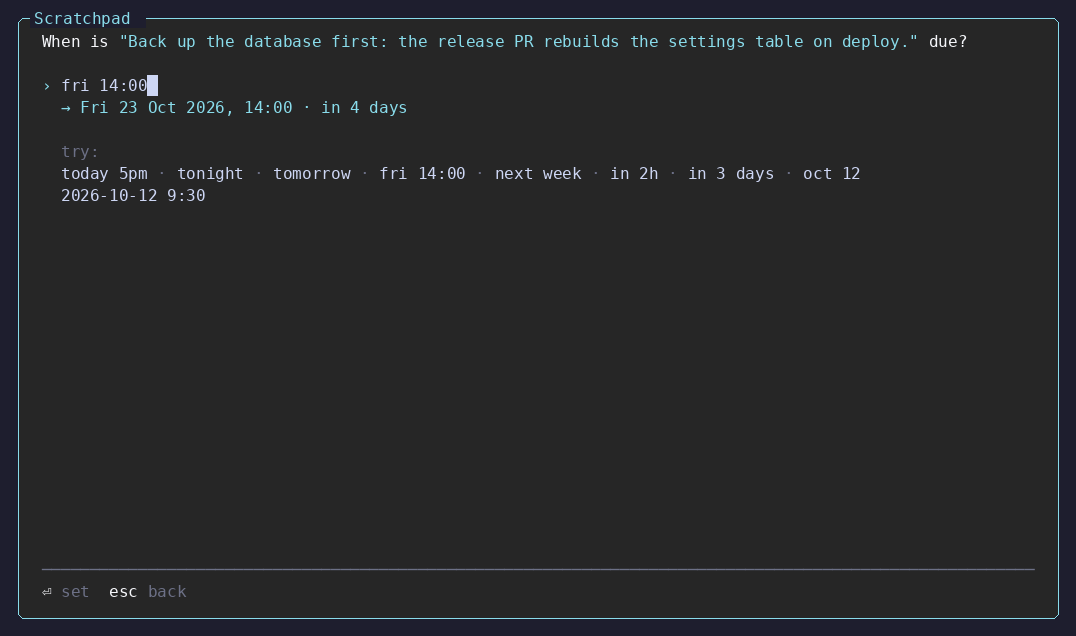
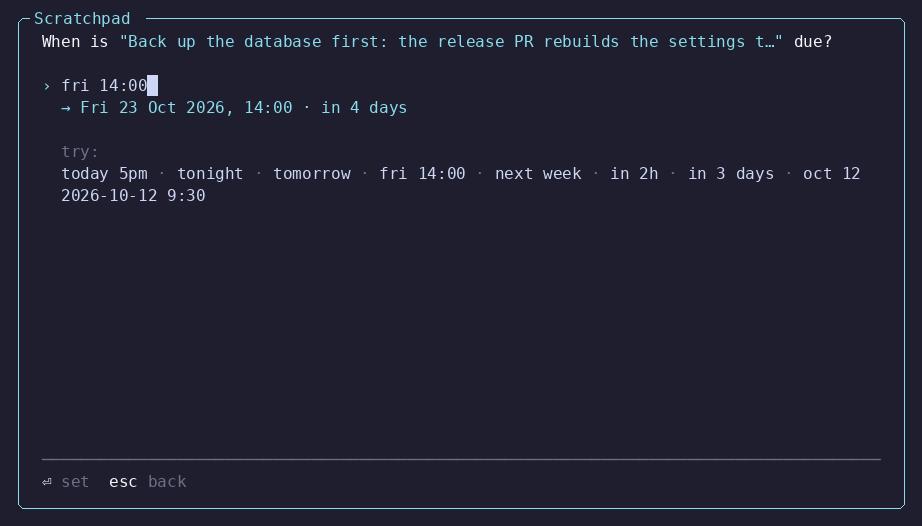
Match Quick Prompt's background and size
The popup no longer paints its own gray background, so it shows Herdr's
theme as Quick Prompt does. Both popups are now 92x23, halfway between
the old sizes.

At that width the notes hints do not all fit, so they are listed most
useful first and the ones that do not fit are left off, instead of the
line being cut mid-word. The screenshots are redrawn.

diff --git a/bin/popup.js b/bin/popup.js
@@ -119,9 +119,18 @@ function suggestions() {
 
 const DOT = ` ${style.dim("·")} `;
 
-// "key label" pairs, the key bright so the eye finds it first.
-function keys(pairs) {
-  return pairs.filter(Boolean).map(([key, label]) => `${style.bright(key)} ${style.dim(label)}`).join("  ");
+// "key label" pairs, the key bright so the eye finds it first. Pairs come
+// most useful first, and those that do not fit in `width` are left off.
+function keys(pairs, width = Infinity) {
+  const shown = [];
+  let used = 0;
+  for (const [key, label] of pairs.filter(Boolean)) {
+    const size = displayWidth(`${key} ${label}`) + (shown.length ? 2 : 0);
+    if (used + size > width) break;
+    shown.push(`${style.bright(key)} ${style.dim(label)}`);
+    used += size;
+  }
+  return shown.join("  ");
 }
 
 function spread(left, right, width) {
@@ -260,7 +269,7 @@ function emptyLines() {
   ];
 }
 
-function notesHints() {
+function notesHints(width) {
   if (state.notice) return style.warn(state.notice);
   if (state.confirmDelete) return style.warn(`ctrl+d again deletes ${plural(targets().length, "note")} · any other key keeps them`);
   if (!current()) return keys([["tab", "write"], ["← →", "folders"], ["esc", "close"]]);
@@ -268,13 +277,13 @@ function notesHints() {
   return keys([
     ["tab", "write"],
     ["⏎", "edit"],
-    ["space", "tick"],
     ["ctrl+n", "agent"],
-    ["ctrl+w", "when"],
-    ["ctrl+x", current().done ? "reopen" : "done"],
-    ["ctrl+d", "delete"],
     src.session && RESUME_ARGS[src.agent] && ["ctrl+o", "session"],
-  ]);
+    ["ctrl+x", current().done ? "reopen" : "done"],
+    ["ctrl+w", "when"],
+    ["ctrl+d", "delete"],
+    ["space", "tick"],
+  ], width);
 }
 
 function notesBody(width, rows) {
@@ -282,7 +291,7 @@ function notesBody(width, rows) {
   lines[0] = tabRow(width);
   lines[1] = style.dim("─".repeat(width));
   lines[rows - 2] = style.dim("─".repeat(width));
-  lines[rows - 1] = notesHints();
+  lines[rows - 1] = notesHints(width);
   const top = 2;
   const height = rows - top - 2;
 

diff --git a/lib/term.js b/lib/term.js
@@ -21,10 +21,6 @@ const GUTTER = 1;
 // terminals that do not send them.
 const BURST_BYTES = 6;
 const ESC = 0x1b;
-// Herdr shows the pane behind a popup through cells left at the default
-// background, spaces included, so every cell gets a real one. Each colour
-// reset would drop it, so it is put back after every reset.
-const BACKGROUND = process.env.NO_COLOR ? "" : `\x1b[48;5;${process.env.SCRATCHPAD_BG ?? "235"}m`;
 
 function context() {
   try {
@@ -41,16 +37,13 @@ function start({ name, body, onKey, onPaste, onEscape }) {
   const width = () => Math.max(30, (out.columns ?? 76) - GUTTER * 2);
   const height = () => Math.max(6, out.rows ?? 12);
 
-  // Every cell has to be written: cells this never paints show the panes
-  // behind the popup.
   function render() {
     const inner = width();
     const rows = height();
     const view = body(inner, rows);
     const painted = [];
     for (let row = 0; row < rows; row += 1) {
-      const line = " ".repeat(GUTTER) + pad(truncate(view.lines[row] ?? "", inner), inner) + " ".repeat(GUTTER);
-      painted.push(BACKGROUND ? `${BACKGROUND}${line.replaceAll("\x1b[0m", `\x1b[0m${BACKGROUND}`)}\x1b[0m` : line);
+      painted.push(" ".repeat(GUTTER) + pad(truncate(view.lines[row] ?? "", inner), inner) + " ".repeat(GUTTER));
     }
     out.write(`\x1b[2J\x1b[H${painted.join("\r\n")}`);
     if (view.caret) out.write(`\x1b[${view.caret.row + 1};${GUTTER + view.caret.col + 1}H\x1b[?25h`);

diff --git a/tools/screenshot.py b/tools/screenshot.py
@@ -31,12 +31,12 @@ FONT = "/usr/share/fonts/truetype/dejavu/DejaVuSansMono.ttf"
 FONT_SIZE = 16
 PAD = 14
 MARGIN = 18
-# What Herdr hands the process for a 108x28 popup: the frame takes the rest.
-COLS, ROWS = 105, 26
+# What Herdr hands the process for a 92x23 popup: the frame takes the rest.
+COLS, ROWS = 89, 21
 
-# Catppuccin Mocha, Herdr's default theme, plus the popup's own background.
+# Catppuccin Mocha, Herdr's default theme.
 BASE = "#1e1e2e"
-POPUP = "#262626"
+POPUP = BASE  # the popup leaves the background to Herdr
 TEXT = "#cdd6f4"
 BRIGHT = "#f5f6fa"
 DIM = "#6c7086"
